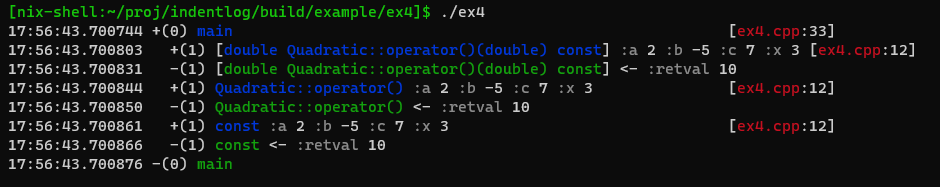
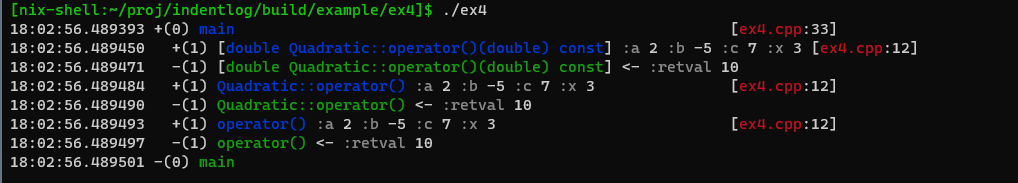
indentlog: bugfix for 'simple' function sig style

diff --git a/include/indentlog/function.hpp b/include/indentlog/function.hpp
@@ -37,16 +37,24 @@ namespace xo {
         std::string_view const & pretty() const { return pretty_; }
 
         /* e.g.
-         *   std::vector<std::pair<int, xo::bar> xo::sometemplateclass<T,U>::fib(int, char**)
+         *   <------------------------------------- s2 ------------------------------------->
+         *                                       <--------------------- s3 ----------------->
+         *                                                                   <----- s4 ----->
+         *   std::vector<std::pair<int, xo::bar> xo::sometemplateclass<T,U>::fib(int, char**) const
          *                                       ^                           ^
          *                                       p                           q
+         *
+         *                                                                   fib   <- .print_aux()
          */
         static void print_simple(std::ostream & os, std::string_view const & s) {
-            std::size_t p = exclude_return_type(s);
-            std::string_view s2 = s.substr(p);
-            std::size_t q = find_toplevel_sep(s2, true /*last_flag*/);
+            std::size_t p = exclude_const_suffix(s);
+            std::string_view s2 = s.substr(0, p); /* no const suffix */
+            std::size_t q = exclude_return_type(s2);
+            std::string_view s3 = s2.substr(q); /* no return type */
+            std::size_t r = find_toplevel_sep(s3, true /*last_flag*/);
+            std::string_view s4 = s3.substr(r);
 
-            print_aux(os, s2.substr(q));
+            print_aux(os, s4);
         } /*print_simple*/
 
         /* e.g.
